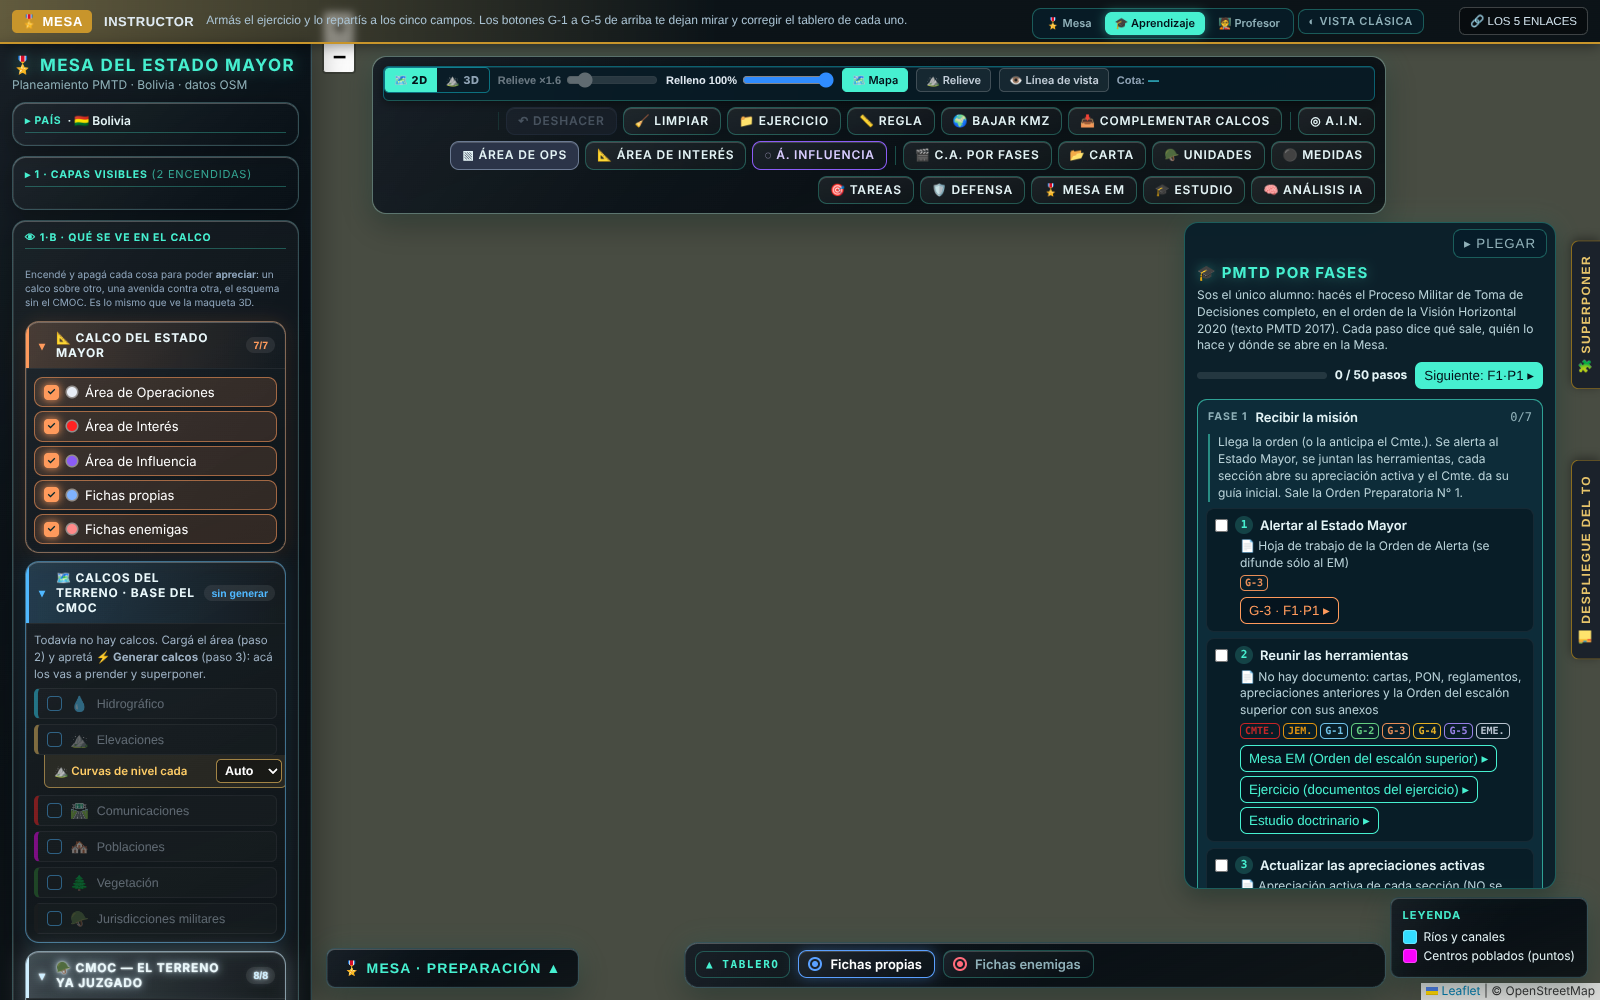
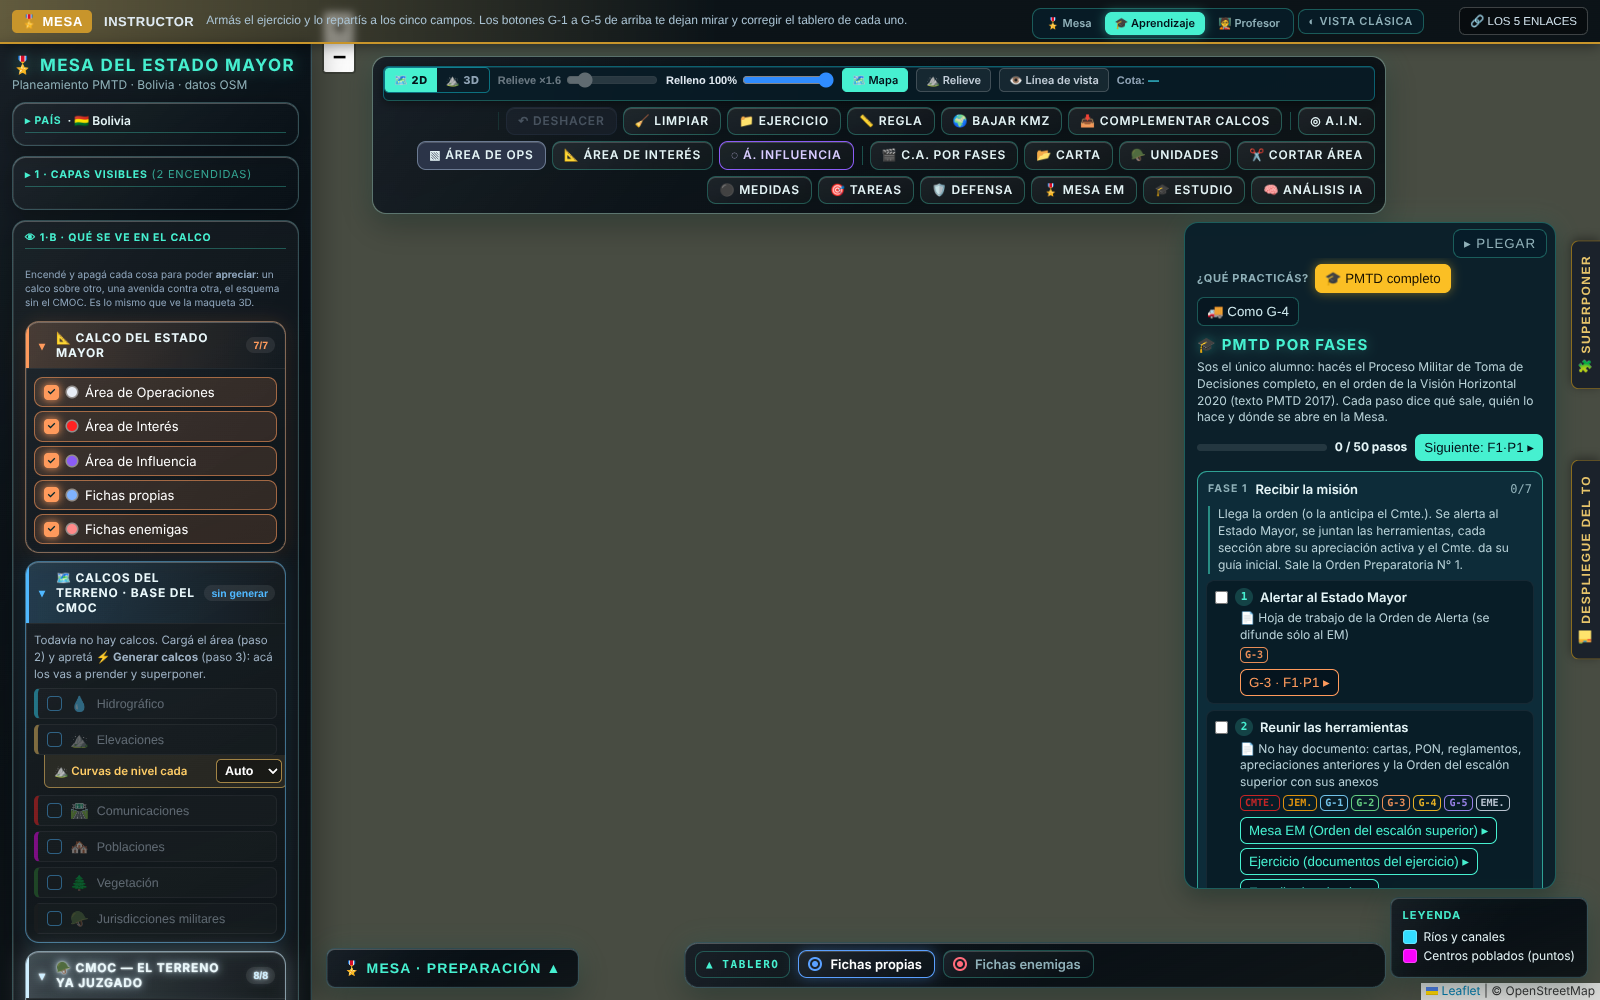
Mesa: 📱 en el teléfono el cartel «MESA · INSTRUCTOR» ya no tapa el tablero de Aprendizaje/Profesor
En el teléfono la carta empieza a media pantalla y su cartel del instructor (z-index 1010, arriba
de la carta) quedaba encima del tablero de la modalidad (1001): tapaba el título y la barra de
avance. En pantalla angosta el tablero va ahora a 1011: justo encima del cartel y todavía debajo
de lo de abajo (Pandora 1100, «Mesa · Preparación» 1150) y de los paneles de cada G (1200). En
pantalla ancha no cambia nada (lo sigue acomodando modalidad.js).

e2e/modalidad.cjs comprueba, en escritorio y teléfono, que lo que hay en el título y en la barra
de avance del tablero es del tablero, en Aprendizaje y en Profesor (cerrando antes la bienvenida y
«Mesa · Preparación», que la Mesa abre sola al recargar). Las capturas del teléfono de Aprendizaje
y Profesor quedan sin el cartel encima; la de Aprendizaje en escritorio muestra «¿Qué practicás?».

Claude-Session: https://claude.ai/code/session_015qdh3LuNY5Mshx5yAiWZEe

Changed region(s): [[0.75, 0.248, 0.9688, 0.899], [0.25, 0.124, 0.5938, 0.217], [0.625, 0.124, 0.8438, 0.186]]

diff --git a/calcos/modalidad/modalidad.css b/calcos/modalidad/modalidad.css
@@ -71,7 +71,11 @@ body.sid-pandora:not([data-sid-modo="mesa"]) .sid-pd-cap{display:none !important
 
 @media (max-width:820px){
   #sid-mod-sel{right:8px;top:auto;bottom:52px;font-size:10px}
-  #sid-mod-panel{left:8px;right:8px;top:auto;bottom:92px;width:auto;max-height:55vh}
+  /* En el teléfono la carta empieza a media pantalla y su cartel «🎖 MESA · INSTRUCTOR» (z-index 1010,
+     arriba de la carta) le quedaba encima al tablero (18-10-2026): el tablero va justo por encima del
+     cartel y sigue debajo de lo de abajo (Pandora 1100, «Mesa · Preparación» 1150) y de los paneles de
+     cada G (1200). Plegado, el cartel se ve entero. En pantalla ancha lo acomoda modalidad.js. */
+  #sid-mod-panel{left:8px;right:8px;top:auto;bottom:92px;width:auto;max-height:55vh;z-index:1011}
   #sid-mod-panel.plegado{left:auto;bottom:140px}
 }
 

diff --git a/calcos/index.html b/calcos/index.html
@@ -102,7 +102,7 @@
     <!-- 🎓 Modalidad (Mesa · Aprendizaje · Profesor): selector arriba y tablero por fases a la derecha.
          Código aparte del compilado; no guarda nada en el ejercicio. Va después de Pandora porque
          con esa piel reemplaza la columna CMTE./JEM./G-1…G-5. -->
-    <link rel="stylesheet" href="./modalidad/modalidad.css?v=20261016g4">
+    <link rel="stylesheet" href="./modalidad/modalidad.css?v=20261018">
     <script src="./modalidad/catalogo.js?v=20261011c" defer></script>
     <script src="./modalidad/biblioteca.js?v=20261010e" defer></script>
     <script src="./modalidad/carpeta.js?v=20261010e" defer></script>

diff --git a/calcos/modalidad/README.md b/calcos/modalidad/README.md
@@ -405,6 +405,15 @@ Prueba: `node calcos/pruebas/e2e/paneles-sin-cruce.cjs` (2000 × 1290, 1440 × 9
 capturas en `pruebas/salidas-paneles/`): nada se cruza, cada botón del tablero y de la barra se
 puede tocar.
 
+**En el teléfono (18-10-2026)** la carta empieza a media pantalla y su cartel «🎖 MESA ·
+INSTRUCTOR» (arriba de la carta, z-index 1010) le quedaba encima al tablero y tapaba el título y la
+barra de avance. Ahora el tablero va justo por encima de ese cartel (1011, `modalidad.css`) y sigue
+debajo de lo que está abajo (Pandora 1100, «Mesa · Preparación» 1150) y de los paneles de cada G
+(1200); plegado, el cartel se ve entero. Lo que NO cambia: si «Mesa · Preparación» está desplegado
+(la Mesa lo despliega sola al recargar), en el teléfono tapa el tablero hasta que se lo oculta («▼
+ocultar»): las dos van abajo y no hay lugar para las dos. `e2e/modalidad.cjs` lo comprueba en
+escritorio y teléfono: lo que hay en el título y en la barra de avance del tablero es del tablero.
+
 ### Lo que es criterio de la Mesa y lo que NO hace (para ser honestos)
 - Las fases, los pasos, los documentos y los responsables son los de la **Visión Horizontal 2020**
   (hoja «PMTD 2020»); los «qué es» de cada fase resumen el texto PMTD 2017. Dónde se abre cada
